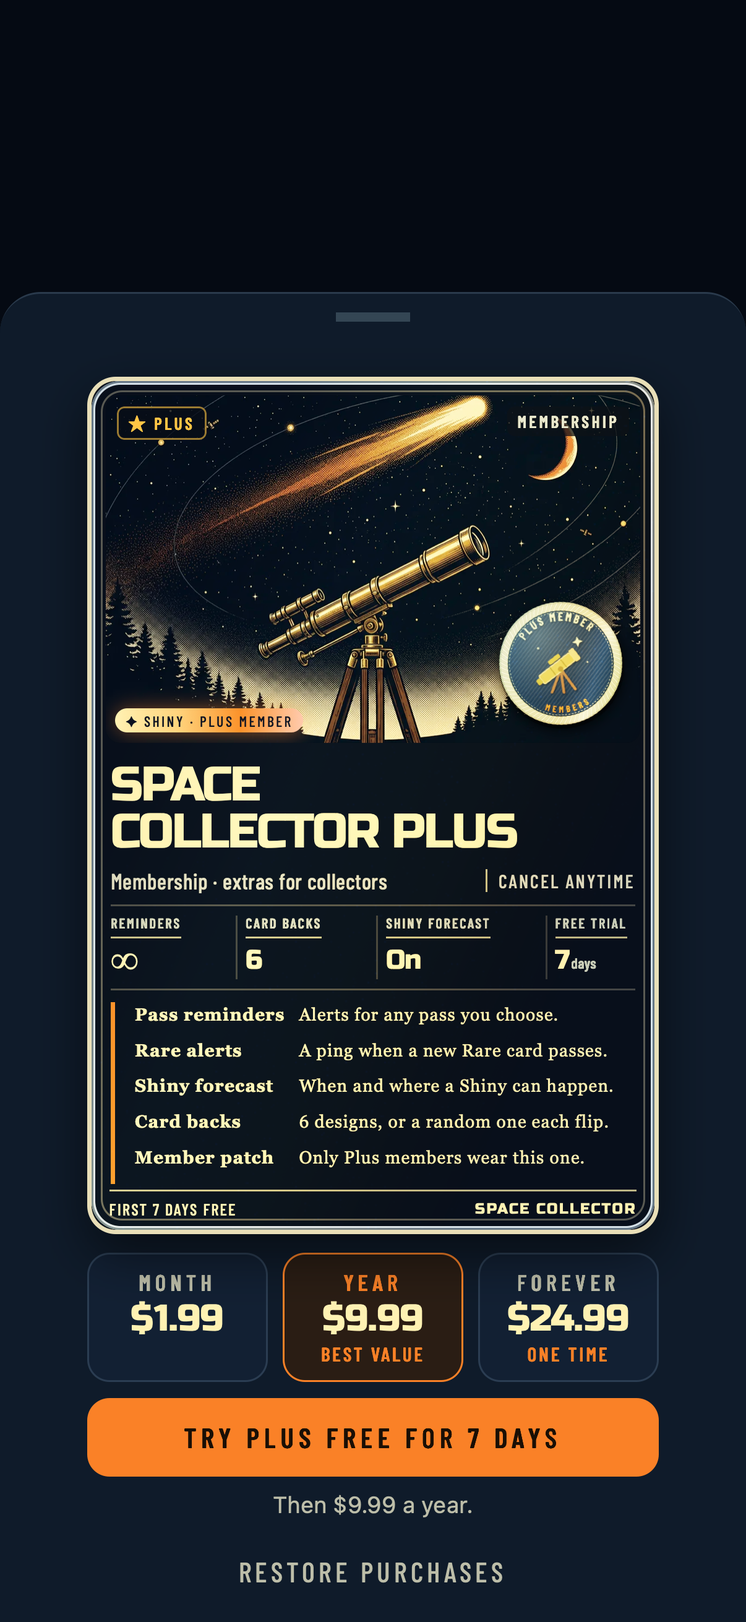
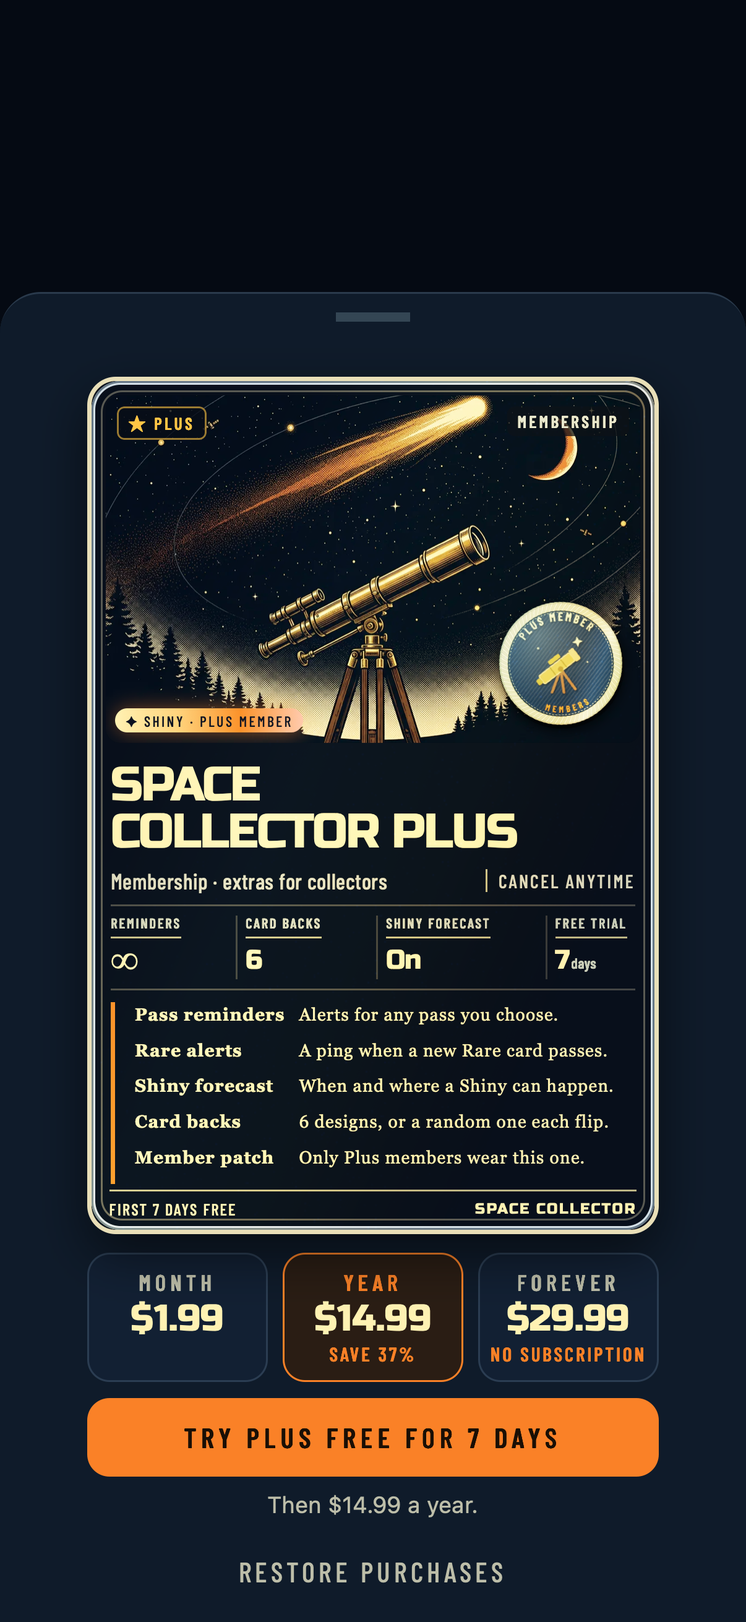
Plus tiles: Save N% on yearly, No subscription on Forever

diff --git a/js/main.js b/js/main.js
@@ -1,51 +1,51 @@
-import { TESTER } from './build-flavor.js?v=0.1.883';
-import { loadComets, comets, cometAt, NAKED_EYE } from './comets.js?v=0.1.883';
-import * as Secrets from './secrets.js?v=0.1.883';
-import { STORY_BY_SECRET } from './stories.js?v=0.1.883';
-import { cloudsHtml, rainHtml } from './weather-art.js?v=0.1.883';
-import * as Ufo from './ufo.js?v=0.1.883';
-import * as Fossil from './fossil.js?v=0.1.883';
-import { patchHtml, patchSvg } from './patches.js?v=0.1.883';
-import { setSwitch, SLIDE_MS } from './switcher.js?v=0.1.883';
-import { toast, ticket, dropToast, toastPending, onTicketShown, iconSvg } from './toast.js?v=0.1.883';
-import { VERSION } from './version.js?v=0.1.883';
-import { loadCatalog, frame, look, track, motion, compassPoint, enuFromAzEl, DARK_SUN_ELEVATION, SkyModel, BelowModel, overEarth, RisingSoon, setBinocularMode, setSkyLimit } from './orbit.js?v=0.1.883';
-import { placeName } from './geo.js?v=0.1.883';
-import { skyLimit, SKIES, DEFAULT_SKY, SB_MIN, SB_MAX, SLIDER_MAX, sbOfSky, skyNameFor } from './sky-limit.js?v=0.1.883';
-import { conArt } from './con-art.js?v=0.1.883';
-import { fetchWeather, tonightSky, skyClearAt, goodSkyAt } from './weather.js?v=0.1.883';
-import { CON_FIGURES } from './con-figures.js?v=0.1.883';
-import { loadConstellations, CON_STARS, CON_BY_ID, conProgress, starDistance } from './constellations.js?v=0.1.883';
-import { shinyFor, SHINY } from './shiny.js?v=0.1.883';
-import { progress as progressOf, missionsFor, readDeals, xpCarry } from './progress.js?v=0.1.883';
-import { eventOf, activeEvent, nextEvent } from './events.js?v=0.1.883';
-import { conList } from './constellations.js?v=0.1.883';
-import { startSensors, trySensorsQuietly, hasLiveSensors, trueBasis, basisFromAzEl, rotateAz, pointing, nudgeHeading, getNudge, lockHeading, setCompassPlace, getDeclination } from './sensors.js?v=0.1.883';
-import { SkyView, shortName } from './sky.js?v=0.1.883';
-import { loadSky, eqToEnu, solarSystem, milkyWayModel, galAxes, roadster, starVector } from './celestial.js?v=0.1.883';
-import { isPlus, setPlusForTesting, onPlus, PLUS_PERKS, PLUS_PRICES, initStore, storePlans, buyPlus, restorePlus, rcTestStore } from './plus.js?v=0.1.883';
-import { isNative, getPosition, saveFile, notifyAt, cancelNotify, haptic, onNative, nativeChrome, plugin } from './native.js?v=0.1.883';
-import { initBackup, onBackupChange, backupSoon, clearBackup, backupStatus } from './cloud-backup.js?v=0.1.883';
-import { addSighting, allSightings, deleteSighting } from './store.js?v=0.1.883';
-import { cardArt } from './art.js?v=0.1.883';
-import { renderCard, miniCard, cardLevel, artImage, lockedArt, attachTilt, attachGyro, throwOff, attachFlip, turnCard } from './card.js?v=0.1.883';
-import { applyBack, CARD_BACKS, backUnlocked, chosenBack, chooseBack, backEarned } from './card-backs.js?v=0.1.883';
-import { sfx, loadSfx, sfxVolume } from './sfx.js?v=0.1.883';
-import { audioCtx } from './audio-ctx.js?v=0.1.883';
-import { musicOn, startMusic, setMusic, duckMusic, musicVolume, setMusicVolume } from './music.js?v=0.1.883';
-import { onRevealNews, playReveal, playView, primeReveal, stopReveal, onRevealDismiss } from './reveal.js?v=0.1.883';
-import { buildCards, cardKeyFor, stampKeyFor, normalizeSighting, stampsIn, fleetLevel, moonPhaseOf, MOON_PHASES } from './card-model.js?v=0.1.883';
-import { collectedDuringPass, collectedTonight, canCapture, nightsIn, nightKey } from './observation.js?v=0.1.883';
-import { naturalTargets, SOLAR_SYSTEM, DEEP_SKY } from './natural.js?v=0.1.883';
-import { placeFromTimeZone } from './tz-places.js?v=0.1.883';
-import { TIER_INFO } from './rarity.js?v=0.1.883';
-import { SETS, albumList } from './sets.js?v=0.1.883';
-import { TYPE_LABEL, ownerName, orbitStats } from './facts.js?v=0.1.883';
-import { pushConfigured, pushOn, enablePush, disablePush, schedulePush, prefetchKey } from './pass-alerts.js?v=0.1.883';
-import { shareCardEl } from './share-card.js?v=0.1.883';
-import { loadLore, titleFor, factFor, richText } from './lore.js?v=0.1.883';
-import { PlaneTracker, planesAvailable, aircraftName, isHelicopter, planePath } from './planes.js?v=0.1.883';
-import { addStarfield } from './starfield.js?v=0.1.883';
+import { TESTER } from './build-flavor.js?v=0.1.884';
+import { loadComets, comets, cometAt, NAKED_EYE } from './comets.js?v=0.1.884';
+import * as Secrets from './secrets.js?v=0.1.884';
+import { STORY_BY_SECRET } from './stories.js?v=0.1.884';
+import { cloudsHtml, rainHtml } from './weather-art.js?v=0.1.884';
+import * as Ufo from './ufo.js?v=0.1.884';
+import * as Fossil from './fossil.js?v=0.1.884';
+import { patchHtml, patchSvg } from './patches.js?v=0.1.884';
+import { setSwitch, SLIDE_MS } from './switcher.js?v=0.1.884';
+import { toast, ticket, dropToast, toastPending, onTicketShown, iconSvg } from './toast.js?v=0.1.884';
+import { VERSION } from './version.js?v=0.1.884';
+import { loadCatalog, frame, look, track, motion, compassPoint, enuFromAzEl, DARK_SUN_ELEVATION, SkyModel, BelowModel, overEarth, RisingSoon, setBinocularMode, setSkyLimit } from './orbit.js?v=0.1.884';
+import { placeName } from './geo.js?v=0.1.884';
+import { skyLimit, SKIES, DEFAULT_SKY, SB_MIN, SB_MAX, SLIDER_MAX, sbOfSky, skyNameFor } from './sky-limit.js?v=0.1.884';
+import { conArt } from './con-art.js?v=0.1.884';
+import { fetchWeather, tonightSky, skyClearAt, goodSkyAt } from './weather.js?v=0.1.884';
+import { CON_FIGURES } from './con-figures.js?v=0.1.884';
+import { loadConstellations, CON_STARS, CON_BY_ID, conProgress, starDistance } from './constellations.js?v=0.1.884';
+import { shinyFor, SHINY } from './shiny.js?v=0.1.884';
+import { progress as progressOf, missionsFor, readDeals, xpCarry } from './progress.js?v=0.1.884';
+import { eventOf, activeEvent, nextEvent } from './events.js?v=0.1.884';
+import { conList } from './constellations.js?v=0.1.884';
+import { startSensors, trySensorsQuietly, hasLiveSensors, trueBasis, basisFromAzEl, rotateAz, pointing, nudgeHeading, getNudge, lockHeading, setCompassPlace, getDeclination } from './sensors.js?v=0.1.884';
+import { SkyView, shortName } from './sky.js?v=0.1.884';
+import { loadSky, eqToEnu, solarSystem, milkyWayModel, galAxes, roadster, starVector } from './celestial.js?v=0.1.884';
+import { isPlus, setPlusForTesting, onPlus, PLUS_PERKS, PLUS_PRICES, initStore, storePlans, buyPlus, restorePlus, rcTestStore } from './plus.js?v=0.1.884';
+import { isNative, getPosition, saveFile, notifyAt, cancelNotify, haptic, onNative, nativeChrome, plugin } from './native.js?v=0.1.884';
+import { initBackup, onBackupChange, backupSoon, clearBackup, backupStatus } from './cloud-backup.js?v=0.1.884';
+import { addSighting, allSightings, deleteSighting } from './store.js?v=0.1.884';
+import { cardArt } from './art.js?v=0.1.884';
+import { renderCard, miniCard, cardLevel, artImage, lockedArt, attachTilt, attachGyro, throwOff, attachFlip, turnCard } from './card.js?v=0.1.884';
+import { applyBack, CARD_BACKS, backUnlocked, chosenBack, chooseBack, backEarned } from './card-backs.js?v=0.1.884';
+import { sfx, loadSfx, sfxVolume } from './sfx.js?v=0.1.884';
+import { audioCtx } from './audio-ctx.js?v=0.1.884';
+import { musicOn, startMusic, setMusic, duckMusic, musicVolume, setMusicVolume } from './music.js?v=0.1.884';
+import { onRevealNews, playReveal, playView, primeReveal, stopReveal, onRevealDismiss } from './reveal.js?v=0.1.884';
+import { buildCards, cardKeyFor, stampKeyFor, normalizeSighting, stampsIn, fleetLevel, moonPhaseOf, MOON_PHASES } from './card-model.js?v=0.1.884';
+import { collectedDuringPass, collectedTonight, canCapture, nightsIn, nightKey } from './observation.js?v=0.1.884';
+import { naturalTargets, SOLAR_SYSTEM, DEEP_SKY } from './natural.js?v=0.1.884';
+import { placeFromTimeZone } from './tz-places.js?v=0.1.884';
+import { TIER_INFO } from './rarity.js?v=0.1.884';
+import { SETS, albumList } from './sets.js?v=0.1.884';
+import { TYPE_LABEL, ownerName, orbitStats } from './facts.js?v=0.1.884';
+import { pushConfigured, pushOn, enablePush, disablePush, schedulePush, prefetchKey } from './pass-alerts.js?v=0.1.884';
+import { shareCardEl } from './share-card.js?v=0.1.884';
+import { loadLore, titleFor, factFor, richText } from './lore.js?v=0.1.884';
+import { PlaneTracker, planesAvailable, aircraftName, isHelicopter, planePath } from './planes.js?v=0.1.884';
+import { addStarfield } from './starfield.js?v=0.1.884';
 
 const $ = (id) => document.getElementById(id);
 const RAD = Math.PI / 180;
@@ -2995,7 +2995,14 @@ function plusFlip(el, backId = null) {
 // The store's own prices (local currency, the real trial) replace the list prices once they arrive (2026-10-16).
 let storeP = null;
 const trialDays = () => (storeP ? storeP.year?.trial || 0 : PLUS_PRICES.find((p) => p.id === 'year')?.trial || 0);
-const shownPrices = () => PLUS_PRICES.map((p) => { const s = storeP?.[p.id]; return s ? { ...p, price: s.price || p.price, trial: p.id === 'year' ? s.trial || 0 : 0 } : p; });
+// Yearly says how much it saves against 12 months, from the prices actually shown (the store's, in local currency),
+// so it stays right in every country and after a price change (2026-10-19, Sevaan).
+const priceNum = (s) => { const m = String(s ?? '').replace(/[^\d.,]/g, '').match(/^(\d+(?:[.,]\d{3})*)(?:[.,](\d{1,2}))?$/); return m ? +`${m[1].replace(/[.,]/g, '')}.${m[2] ?? 0}` : NaN; };
+const shownPrices = () => {
+  const ps = PLUS_PRICES.map((p) => { const s = storeP?.[p.id]; return s ? { ...p, price: s.price || p.price, trial: p.id === 'year' ? s.trial || 0 : 0 } : p; });
+  const m = priceNum(ps.find((p) => p.id === 'month')?.price), y = priceNum(ps.find((p) => p.id === 'year')?.price), save = Math.round((1 - y / (12 * m)) * 100);
+  return ps.map((p) => (p.id === 'year' ? { ...p, note: save > 0 && save < 100 ? `Save ${save}%` : 'Best value' } : p));
+};
 function renderPlusBuy() {
   const prices = shownPrices(), plan = prices.find((p) => p.id === plusPlan) ?? prices[1];
   $('plus-prices').innerHTML = prices.map((p) => `<button type="button" class="plus-pr${p.id === plusPlan ? ' on' : ''}" role="radio" aria-checked="${p.id === plusPlan}" data-plan="${p.id}"><small>${escapeHtml(p.label.toUpperCase())}</small><b>${escapeHtml(p.price)}</b><em>${escapeHtml((p.note || '').toUpperCase())}</em></button>`).join('');

diff --git a/js/cards-page.js b/js/cards-page.js
@@ -1,29 +1,29 @@
-import { isNative, saveFile, notifyAt, shareFile, feel } from './native.js?v=0.1.883';
-import { computeStats, statsHtml } from './stats.js?v=0.1.883';
-import { nightKey } from './observation.js?v=0.1.883';
-import { loadComets, comets, cometAt, NAKED_EYE } from './comets.js?v=0.1.883';
-import { sfx } from './sfx.js?v=0.1.883';
-import { expandFacts } from './catalog-facts.js?v=0.1.883';
-import { patchHtml, GROUPS, GROUP_ORDER, groupOf, finishOf, fmtEarned } from './patches.js?v=0.1.883';
-import { setSwitch, SLIDE_MS } from './switcher.js?v=0.1.883';
-import { ticket } from './toast.js?v=0.1.883';
-import { orbitGlobe, whereLine } from './orbit-view.js?v=0.1.883';
-import { renderCard, miniCard, lockedArt, renderCardTile, attachTilt, attachGyro, attachFlip, artImage, throwOff, retype } from './card.js?v=0.1.883';
-import { cardArt } from './art.js?v=0.1.883';
-import { buildCards, cardKeyFor, normalizeSighting } from './card-model.js?v=0.1.883';
-import { applyBack } from './card-backs.js?v=0.1.883';
-import { SETS, assignSets, albumGoals, albumList } from './sets.js?v=0.1.883';
-import { TIERS, TIER_INFO } from './rarity.js?v=0.1.883';
-import { loadLore, titleFor, factFor } from './lore.js?v=0.1.883';
-import { STORIES } from './stories.js?v=0.1.883';
-import { loadConstellations, conList } from './constellations.js?v=0.1.883';
-import { RANKS, progress, readDeals, xpCarry } from './progress.js?v=0.1.883';
-import { eventBadges, nextEvent } from './events.js?v=0.1.883';
-import { shareCardEl } from './share-card.js?v=0.1.883';
-import { forgetSighting } from './cloud-backup.js?v=0.1.883';
-import { allSightings, deleteSighting } from './store.js?v=0.1.883';
-import { addStarfield, attachTileTilt } from './starfield.js?v=0.1.883';
-import { SECRET_PATCHES, hasPatch } from './secrets.js?v=0.1.883';
+import { isNative, saveFile, notifyAt, shareFile, feel } from './native.js?v=0.1.884';
+import { computeStats, statsHtml } from './stats.js?v=0.1.884';
+import { nightKey } from './observation.js?v=0.1.884';
+import { loadComets, comets, cometAt, NAKED_EYE } from './comets.js?v=0.1.884';
+import { sfx } from './sfx.js?v=0.1.884';
+import { expandFacts } from './catalog-facts.js?v=0.1.884';
+import { patchHtml, GROUPS, GROUP_ORDER, groupOf, finishOf, fmtEarned } from './patches.js?v=0.1.884';
+import { setSwitch, SLIDE_MS } from './switcher.js?v=0.1.884';
+import { ticket } from './toast.js?v=0.1.884';
+import { orbitGlobe, whereLine } from './orbit-view.js?v=0.1.884';
+import { renderCard, miniCard, lockedArt, renderCardTile, attachTilt, attachGyro, attachFlip, artImage, throwOff, retype } from './card.js?v=0.1.884';
+import { cardArt } from './art.js?v=0.1.884';
+import { buildCards, cardKeyFor, normalizeSighting } from './card-model.js?v=0.1.884';
+import { applyBack } from './card-backs.js?v=0.1.884';
+import { SETS, assignSets, albumGoals, albumList } from './sets.js?v=0.1.884';
+import { TIERS, TIER_INFO } from './rarity.js?v=0.1.884';
+import { loadLore, titleFor, factFor } from './lore.js?v=0.1.884';
+import { STORIES } from './stories.js?v=0.1.884';
+import { loadConstellations, conList } from './constellations.js?v=0.1.884';
+import { RANKS, progress, readDeals, xpCarry } from './progress.js?v=0.1.884';
+import { eventBadges, nextEvent } from './events.js?v=0.1.884';
+import { shareCardEl } from './share-card.js?v=0.1.884';
+import { forgetSighting } from './cloud-backup.js?v=0.1.884';
+import { allSightings, deleteSighting } from './store.js?v=0.1.884';
+import { addStarfield, attachTileTilt } from './starfield.js?v=0.1.884';
+import { SECRET_PATCHES, hasPatch } from './secrets.js?v=0.1.884';
 
 const $ = (id) => document.getElementById(id);
 const state = { raw: [], cards: [], byKey: new Map(), sightingsByKey: new Map(), seenMembers: new Map(), view: 'owned', query: '', set: 'all', rarity: 'all', list: [], index: 0, preview: false, ready: false };

diff --git a/js/card.js b/js/card.js
@@ -1,20 +1,20 @@
 // Retro space-age cards. Text remains live; the foil follows pointer or optional phone tilt.
-import { fallWords } from './last-chance.js?v=0.1.883';
-import { feel } from './native.js?v=0.1.883';
-import { sfx } from './sfx.js?v=0.1.883';
-import { cardArt } from './art.js?v=0.1.883';
-import { TIER_INFO } from './rarity.js?v=0.1.883';
-import { SET_BY_ID } from './sets.js?v=0.1.883';
-import { TYPE_LABEL, orbitStats, sizeLabel, formatDate, titleCase } from './facts.js?v=0.1.883';
-import { FLEET_ABOUT, debrisOf, roleOf, ownerWord, titleFor, factFor, yearsUp, lapsPerDay, thirdStat, richText, seriesKeyOf } from './lore.js?v=0.1.883';
-import { artFileFor } from './art-keys.js?v=0.1.883';
-import { ART_FILES, ART_STARS } from './art-files.js?v=0.1.883';
-import { stampsIn, fleetLevel, fleetThresholds, sightingKeys, MOON_PHASES, moonPhaseOf } from './card-model.js?v=0.1.883';
-import { nightsIn } from './observation.js?v=0.1.883';
-import { CON_BY_ID, conProgress } from './constellations.js?v=0.1.883';
-import { SHINY } from './shiny.js?v=0.1.883';
-import { conArt, cometArt } from './con-art.js?v=0.1.883';
-import { CON_FIGURES } from './con-figures.js?v=0.1.883';
+import { fallWords } from './last-chance.js?v=0.1.884';
+import { feel } from './native.js?v=0.1.884';
+import { sfx } from './sfx.js?v=0.1.884';
+import { cardArt } from './art.js?v=0.1.884';
+import { TIER_INFO } from './rarity.js?v=0.1.884';
+import { SET_BY_ID } from './sets.js?v=0.1.884';
+import { TYPE_LABEL, orbitStats, sizeLabel, formatDate, titleCase } from './facts.js?v=0.1.884';
+import { FLEET_ABOUT, debrisOf, roleOf, ownerWord, titleFor, factFor, yearsUp, lapsPerDay, thirdStat, richText, seriesKeyOf } from './lore.js?v=0.1.884';
+import { artFileFor } from './art-keys.js?v=0.1.884';
+import { ART_FILES, ART_STARS } from './art-files.js?v=0.1.884';
+import { stampsIn, fleetLevel, fleetThresholds, sightingKeys, MOON_PHASES, moonPhaseOf } from './card-model.js?v=0.1.884';
+import { nightsIn } from './observation.js?v=0.1.884';
+import { CON_BY_ID, conProgress } from './constellations.js?v=0.1.884';
+import { SHINY } from './shiny.js?v=0.1.884';
+import { conArt, cometArt } from './con-art.js?v=0.1.884';
+import { CON_FIGURES } from './con-figures.js?v=0.1.884';
 // The animal/symbol figure belongs to the completed (gold) constellation card only (2026-10-05): a single
 // star's card draws just the star pattern with its star marked, so the figure is a reward for finishing the set.
 // A star card's constellation figure comes into focus as you collect the constellation's stars (design/con-focus.html B).

diff --git a/cards.html b/cards.html
@@ -18,10 +18,10 @@
   <link href="https://fonts.googleapis.com/css2?family=Inter:wght@400;450;500;600;650;700;750;800&family=IBM+Plex+Mono:wght@400;500;600&display=swap" rel="stylesheet">
   <link rel="preload" href="fonts/RussoOne-Regular.ttf" as="font" type="font/ttf" crossorigin>
   <link rel="preload" href="fonts/BarlowCondensed-Medium.ttf" as="font" type="font/ttf" crossorigin>
-  <link rel="stylesheet" href="css/cards.css?v=0.1.883">
-  <link rel="stylesheet" href="css/collection.css?v=0.1.883">
-  <link rel="stylesheet" href="css/icons.css?v=0.1.883">
-  <link rel="stylesheet" href="css/ui.css?v=0.1.883">
+  <link rel="stylesheet" href="css/cards.css?v=0.1.884">
+  <link rel="stylesheet" href="css/collection.css?v=0.1.884">
+  <link rel="stylesheet" href="css/icons.css?v=0.1.884">
+  <link rel="stylesheet" href="css/ui.css?v=0.1.884">
 </head>
 <body>
   <header class="collection-header sky-header"><span class="wordmark">SPACE COLLECTOR<span>COLLECT THE NIGHT SKY</span></span><span class="header-buttons"><button class="icon-button" id="night-toggle" type="button" aria-label="Turn on red night mode" aria-pressed="false">☾</button><a class="icon-button" href="./?resume=1&amp;more=1" aria-label="Settings"><span class="ico" data-ico="sliders"></span></a></span></header>
@@ -45,7 +45,7 @@
     <div class="viewer-header"><span id="v-position" class="ui-eyebrow"></span><button class="close x-close" id="v-close" type="button" aria-label="Close">✕</button></div>
     <div class="viewer-scroll"><div id="slot"></div><div id="v-up" class="v-up" hidden></div><p id="v-where" class="v-where" hidden></p><p id="v-status" class="viewer-status" aria-live="polite"></p><button id="v-share" class="ui-link" type="button" hidden>Share this card</button><div id="v-next" class="v-next" hidden></div><button id="v-preview" class="ui-btn" type="button" hidden>Preview artwork</button><div id="v-history" class="viewer-history"></div></div>
   </dialog>
-  <script type="module" src="js/cards-page.js?v=0.1.883"></script>
+  <script type="module" src="js/cards-page.js?v=0.1.884"></script>
 <div id="rotate" role="status"><b>Turn your phone upright</b><span>Space Collector is made for portrait.</span></div>
 </body>
 </html>

diff --git a/js/review.js b/js/review.js
@@ -3,15 +3,15 @@
 // picture" shows one card for each art file (most satellites share a picture by kind) with how many cards use it.
 // Stars (☆) are saved in this browser (localStorage 'reviewStars'); "Copy starred" puts a list on the clipboard to
 // hand back. Not linked from the app.
-import { expandFacts } from './catalog-facts.js?v=0.1.883';
-import { renderCard, miniCard, artImage } from './card.js?v=0.1.883';
-import { buildCards } from './card-model.js?v=0.1.883';
-import { TIERS, TIER_INFO } from './rarity.js?v=0.1.883';
-import { loadLore, titleFor, debrisOf } from './lore.js?v=0.1.883';
-import './stories.js?v=0.1.883';
-import { CON_FIGURES } from './con-figures.js?v=0.1.883';
-import { loadConstellations, CON_BY_ID } from './constellations.js?v=0.1.883';
-import { loadComets } from './comets.js?v=0.1.883';
+import { expandFacts } from './catalog-facts.js?v=0.1.884';
+import { renderCard, miniCard, artImage } from './card.js?v=0.1.884';
+import { buildCards } from './card-model.js?v=0.1.884';
+import { TIERS, TIER_INFO } from './rarity.js?v=0.1.884';
+import { loadLore, titleFor, debrisOf } from './lore.js?v=0.1.884';
+import './stories.js?v=0.1.884';
+import { CON_FIGURES } from './con-figures.js?v=0.1.884';
+import { loadConstellations, CON_BY_ID } from './constellations.js?v=0.1.884';
+import { loadComets } from './comets.js?v=0.1.884';
 
 const $ = (id) => document.getElementById(id);
 const esc = (s) => String(s ?? '').replace(/[&<>"]/g, (c) => ({ '&': '&amp;', '<': '&lt;', '>': '&gt;', '"': '&quot;' })[c]);

diff --git a/js/sky.js b/js/sky.js
@@ -1,17 +1,17 @@
 // Canvas renderer for the sky view. Gnomonic (pinhole camera) projection around where the phone points.
-import { extinction } from './sky-limit.js?v=0.1.883';
+import { extinction } from './sky-limit.js?v=0.1.884';
 // Two themes: 'glass' (ink, cream and orange celestial chart) and 'night' (all red, keeps dark adaptation).
-import { createMilkyGL } from './milkyway-gl.js?v=0.1.883';
+import { createMilkyGL } from './milkyway-gl.js?v=0.1.884';
 
-import { enuFromAzEl, compassPoint } from './orbit.js?v=0.1.883';
-import { createCloudGL } from './clouds-gl.js?v=0.1.883';
+import { enuFromAzEl, compassPoint } from './orbit.js?v=0.1.884';
+import { createCloudGL } from './clouds-gl.js?v=0.1.884';
 // Cloud colours by light: sunlit tops, shadowed bellies, and the horizon haze they melt into (0–1 RGB).
 const CLOUD_LIGHT = {
   day: { lit: [1, 1, 1], shade: [0.62, 0.68, 0.77], haze: [0.82, 0.87, 0.93] },
   dusk: { lit: [1, 0.8, 0.68], shade: [0.36, 0.33, 0.42], haze: [0.62, 0.5, 0.52] },
   night: { lit: [0.22, 0.25, 0.31], shade: [0.1, 0.12, 0.16], haze: [0.14, 0.15, 0.2] },
 };
-import { TIER_INFO } from './rarity.js?v=0.1.883';
+import { TIER_INFO } from './rarity.js?v=0.1.884';
 
 const RAD = Math.PI / 180;
 const SECRET_PX = { santa: 24, roadster: 12.4, voyager: 14.5, voyager2: 14.5, pioneer10: 11.7, pioneer11: 11.7, newhorizons: 6.4, arecibo: 6.9, halley: 8.6, sputnik: 11.2, laika: 13.3, wow: 9.8 };

diff --git a/index.html b/index.html
@@ -22,11 +22,11 @@
   <link rel="preload" href="fonts/RussoOne-Regular.ttf" as="font" type="font/ttf" crossorigin>
   <link rel="preload" href="fonts/BarlowCondensed-Medium.ttf" as="font" type="font/ttf" crossorigin>
   <link href="https://fonts.googleapis.com/css2?family=Inter:wght@400;450;500;600;650;700;750;800&family=IBM+Plex+Mono:wght@400;500;600&display=swap" rel="stylesheet">
-  <link rel="stylesheet" href="css/cards.css?v=0.1.883">
-  <link rel="stylesheet" href="css/app.css?v=0.1.883">
-  <link rel="stylesheet" href="css/icons.css?v=0.1.883">
-  <link rel="stylesheet" href="css/reveal.css?v=0.1.883">
-  <link rel="stylesheet" href="css/ui.css?v=0.1.883">
+  <link rel="stylesheet" href="css/cards.css?v=0.1.884">
+  <link rel="stylesheet" href="css/app.css?v=0.1.884">
+  <link rel="stylesheet" href="css/icons.css?v=0.1.884">
+  <link rel="stylesheet" href="css/reveal.css?v=0.1.884">
+  <link rel="stylesheet" href="css/ui.css?v=0.1.884">
 </head>
 <body>
   <video id="cam" playsinline muted autoplay hidden></video>
@@ -312,7 +312,7 @@
     </div></div>
   </section>
 
-  <script type="module" src="js/main.js?v=0.1.883"></script>
+  <script type="module" src="js/main.js?v=0.1.884"></script>
 <div id="rotate" role="status"><b>Turn your phone upright</b><span>Space Collector is made for portrait.</span></div>
 </body>
 </html>

diff --git a/js/plus.js b/js/plus.js
@@ -3,7 +3,7 @@
 // (2026-10-16): the purchase belongs to the player's Apple ID / Google account, no sign-in of ours. The last answer is
 // kept (localStorage 'plusStore') so Plus holds offline. The testing toggle (Settings → Testing tools → "Plus
 // (testing)", 'plusTest') still turns it on anywhere; the website never sells Plus.
-import { plugin, isNative, onNative } from './native.js?v=0.1.883';
+import { plugin, isNative, onNative } from './native.js?v=0.1.884';
 
 // RevenueCat public SDK keys (safe in the app). The Test Store key works with no App Store / Play setup; swap in the
 // appl_ / goog_ keys from RevenueCat → Project settings → API keys once the store apps are connected.
@@ -88,6 +88,6 @@ export const PLUS_PERKS = [
 // Prices (2026-10-16, Sevaan). The yearly plan has the 7-day free trial; all three are shared with Family Sharing.
 export const PLUS_PRICES = [
   { id: 'month', label: 'Month', price: '$1.99', note: '' },
-  { id: 'year', label: 'Year', price: '$14.99', note: 'Best value', trial: 7 },
-  { id: 'once', label: 'Forever', price: '$29.99', note: 'One time' },
+  { id: 'year', label: 'Year', price: '$14.99', note: 'Save 37%', trial: 7 }, // the % is worked out from the shown prices (main.js shownPrices)
+  { id: 'once', label: 'Forever', price: '$29.99', note: 'No subscription' },
 ];

diff --git a/js/share-card.js b/js/share-card.js
@@ -1,11 +1,11 @@
-import { isNative, shareFile } from './native.js?v=0.1.883';
+import { isNative, shareFile } from './native.js?v=0.1.884';
 // Share a card as an image (1080 × 1350, Instagram portrait): drawn on a canvas in the card style (art,
 // name, rarity, stats, fact, when you saw it, your observer rank), then handed to the share sheet
 // (navigator.share with a file) or downloaded. Drawing it ourselves avoids DOM-screenshot libraries,
 // which mangle Safari's fonts and blend modes.
-import { conArt } from './con-art.js?v=0.1.883';
-import { CON_BY_ID } from './constellations.js?v=0.1.883';
-import { TIER_INFO } from './rarity.js?v=0.1.883';
+import { conArt } from './con-art.js?v=0.1.884';
+import { CON_BY_ID } from './constellations.js?v=0.1.884';
+import { TIER_INFO } from './rarity.js?v=0.1.884';
 const W = 1080, H = 1350, INK = '#fff2b3', MUTED = '#bdbea9', ORANGE = '#fa8127', NAVY = '#080f1b';
 const loadImg = (src) => new Promise((ok, bad) => { const i = new Image(); i.onload = () => ok(i); i.onerror = bad; i.src = src; });
 const svgImg = async (svg) => { const u = URL.createObjectURL(new Blob([svg], { type: 'image/svg+xml' })); try { return await loadImg(u); } finally { URL.revokeObjectURL(u); } };

diff --git a/js/reveal.js b/js/reveal.js
@@ -5,12 +5,12 @@
 //  Everything scales with rarity (Legendary dims the sky, shockwave, held breath, slow flip, fanfare).
 // Waits use timers, not animation.finished, so a paused tab can never freeze the sequence.
 
-import { sfx, loadSfx } from './sfx.js?v=0.1.883';
-import { audioCtx } from './audio-ctx.js?v=0.1.883';
-import { TIER_INFO } from './rarity.js?v=0.1.883';
-import { levelFor, attachTilt, attachGyro, attachFlip, throwOff, retype } from './card.js?v=0.1.883';
-import { applyBack } from './card-backs.js?v=0.1.883';
-import { addStarfield } from './starfield.js?v=0.1.883';
+import { sfx, loadSfx } from './sfx.js?v=0.1.884';
+import { audioCtx } from './audio-ctx.js?v=0.1.884';
+import { TIER_INFO } from './rarity.js?v=0.1.884';
+import { levelFor, attachTilt, attachGyro, attachFlip, throwOff, retype } from './card.js?v=0.1.884';
+import { applyBack } from './card-backs.js?v=0.1.884';
+import { addStarfield } from './starfield.js?v=0.1.884';
 
 const FX = {
   common:    { particles: 14,  flip: 520,  spin: 0,   dim: 0,   shock: false, notes: [880],                            hold: 0 },

diff --git a/js/tonight-worker.js b/js/tonight-worker.js
@@ -2,9 +2,9 @@
 // many satellites are visible over the night. Runs off the main thread; ~4,000 objects × 1-minute steps
 // takes a few seconds. Visibility uses the same rules as the live sky: sunlit, dark sky, and brighter than
 // the limit for your sky at that moment (light pollution, twilight, Moon; js/sky-limit.js).
-import { frame, look, setSkyLimit, setBinocularMode, DARK_SUN_ELEVATION } from './orbit.js?v=0.1.883';
-import { skyLimit } from './sky-limit.js?v=0.1.883';
-import { solarSystem, eqToEnu } from './celestial.js?v=0.1.883';
+import { frame, look, setSkyLimit, setBinocularMode, DARK_SUN_ELEVATION } from './orbit.js?v=0.1.884';
+import { skyLimit } from './sky-limit.js?v=0.1.884';
+import { solarSystem, eqToEnu } from './celestial.js?v=0.1.884';
 
 const STEP0 = 60000;         // 1 minute (other nights in the week ahead use 2)
 const GAP = 3;               // a pass ends after this many minutes out of sight

diff --git a/review.html b/review.html
@@ -7,8 +7,8 @@
   <title>Card Review</title>
   <link rel="icon" href="icons/icon-192.png">
   <link href="https://fonts.googleapis.com/css2?family=Inter:wght@400;450;500;600;650;700;750;800&family=IBM+Plex+Mono:wght@400;500;600&display=swap" rel="stylesheet">
-  <link rel="stylesheet" href="css/cards.css?v=0.1.883">
-  <link rel="stylesheet" href="css/ui.css?v=0.1.883">
+  <link rel="stylesheet" href="css/cards.css?v=0.1.884">
+  <link rel="stylesheet" href="css/ui.css?v=0.1.884">
   <style>
     /* Every card on one page, for scanning art and layout (2026-10-14). Not linked from the app. */
     :root { color-scheme: dark; }
@@ -74,6 +74,6 @@
   <main id="grid" aria-live="polite"></main>
   <div id="view" hidden></div>
   <div id="toast" hidden></div>
-  <script type="module" src="js/review.js?v=0.1.883"></script>
+  <script type="module" src="js/review.js?v=0.1.884"></script>
 </body>
 </html>
